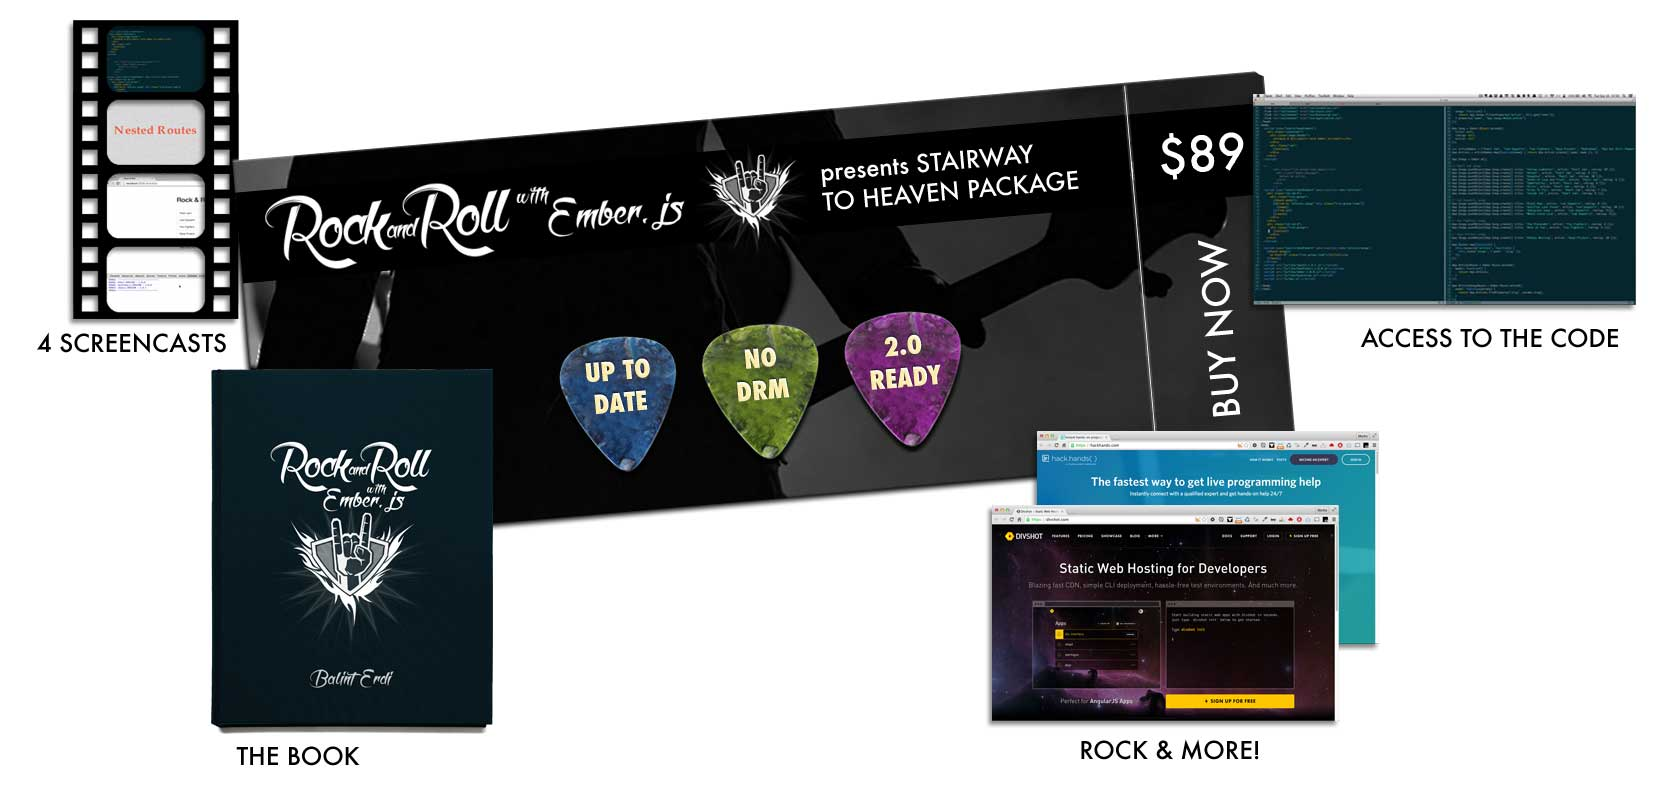
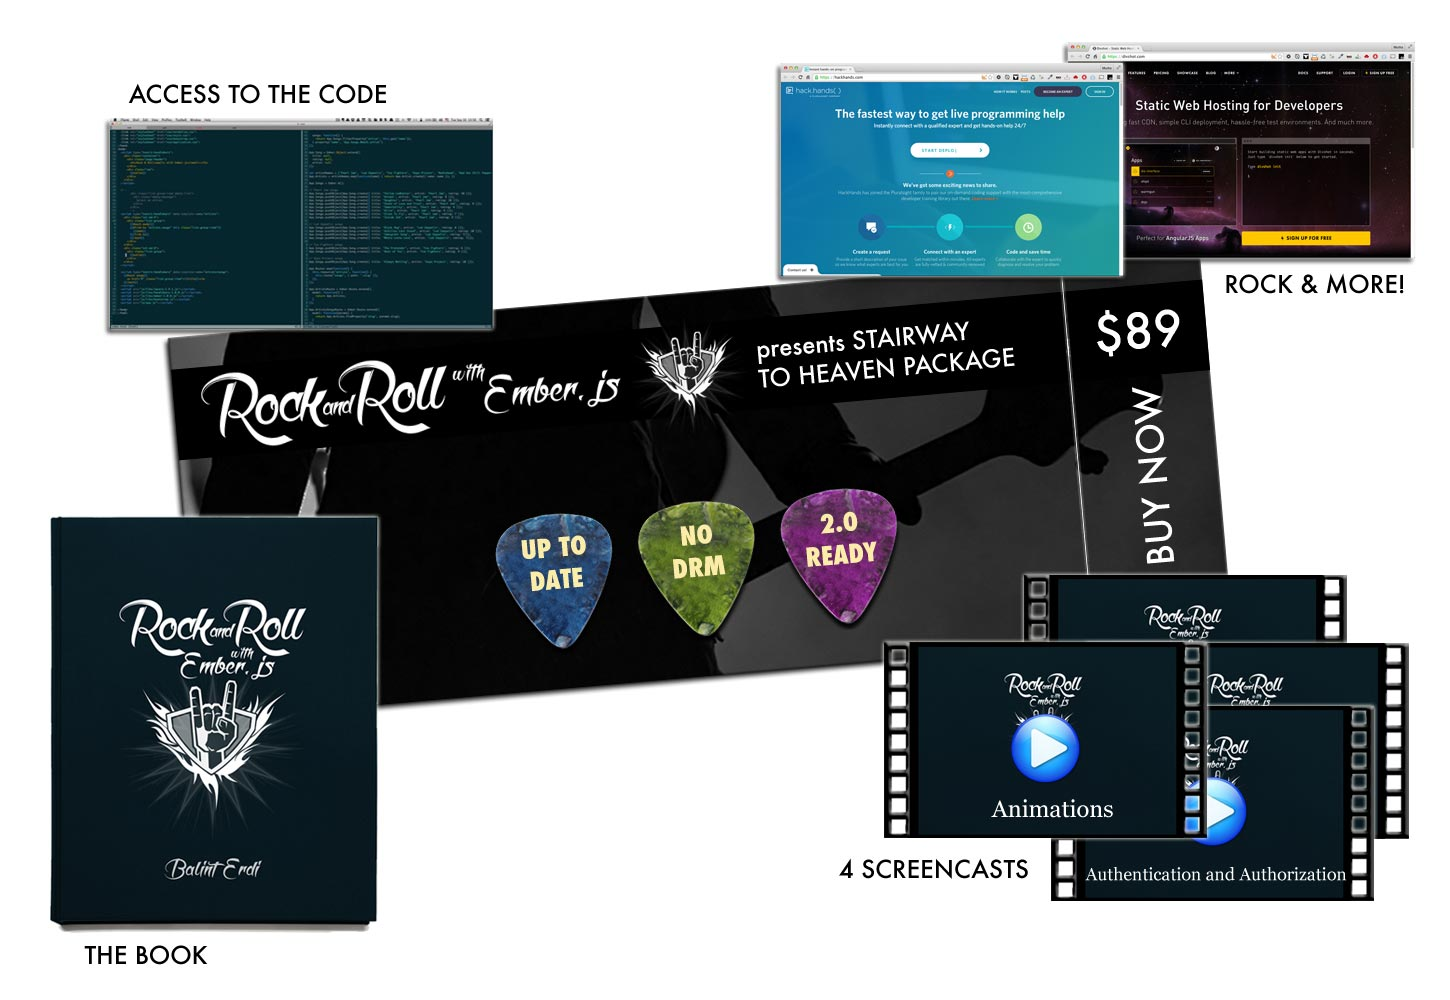
Add visual content for all the packages

diff --git a/source/_layouts/rarwe_book.html b/source/_layouts/rarwe_book.html
@@ -304,7 +304,7 @@
               <div class="col-lg-12 col-md-12">
                 <p class="package-intro">
                   The path to Ember.js bliss, this package contains all you need to take your Ember.js skills to the next level. <strong>It contains:</strong><br><br>
-                  <a href="https://gum.co/rarwe-high-tier"><img src="images/ticket-stairway.jpg" alt="Stairway to Heaven Package" style="width: 757px;"></a>
+                  <a href="https://gum.co/rarwe-high-tier" data-price="89"><img src="images/ticket-stairway.jpg" alt="Stairway to Heaven Package"></a>
                 </p>
               </div>
             </div>
@@ -429,10 +429,15 @@
               <div class="col-lg-12 col-md-12">
                 <p class="package-intro">
                   Take out the screencasts and you have this smaller package that will still ignite your Ember rocket. <strong>It contains:</strong>
+                  <a href="https://gum.co/rarwe-middle-tier" data-price="59"><img src="images/ticket-light.jpg" alt="Light my Fire Package"></a>
                 </p>
               </div>
             </div>
+          </div>
+        </section>
 
+        <section class="section-gray package">
+          <div class="container">
             <div class="row">
               <div class="benefits col-lg-9 col-centered">
                 <div class="col-lg-4 col-sm-6 col-xs-12">
@@ -449,7 +454,7 @@
                 <div class="col-lg-4 col-sm-6 col-xs-12">
                   <div class="items">
                     <div class="benefits-icon">
-                      <img src="images/icon-code.jpg" alt="Code" />
+                      <img src="images/icon-code.png" alt="Code" />
                     </div>
                     <h3>Access to the code</h3>
                     <span>All of the source code</span>
@@ -460,7 +465,7 @@
                 <div class="col-lg-4 col-sm-6 col-xs-12 rock-and-roll">
                   <div class="items">
                     <div class="benefits-icon">
-                      <img src="images/icon-rnr.gif" alt="Rock and Roll" />
+                      <img src="images/icon-rnr.png" alt="Rock and Roll" />
                     </div>
                     <h3>Rock &amp; More</h3>
                     <span>Includes</span>
@@ -499,10 +504,16 @@
               <div class="col-lg-12 col-md-12">
                 <p class="package-intro">
                   Basic but still solid, as the name suggests. This package inclues the book and the Divshot deal. <strong>It contains:</strong>
+                  <br><br>
+                  <a href="https://gum.co/rarwe-low-tier" data-price="39"><img src="images/ticket-smoke.jpg" alt="Smoke on the Water Package"></a>
                 </p>
               </div>
             </div>
+          </div>
+        </section>
 
+        <section class="section-gray package">
+          <div class="container">
             <div class="row">
               <div class="benefits">
                 <div class="col-lg-3 col-lg-offset-3 col-sm-6 col-xs-12">
@@ -519,7 +530,7 @@
                 <div class="col-lg-3 col-sm-6 col-xs-12">
                   <div class="items">
                     <div class="benefits-icon">
-                      <img src="images/icon-rnr.gif" alt="Rock and Roll" />
+                      <img src="images/icon-rnr.png" alt="Rock and Roll" />
                     </div>
                     <h3>Rock &amp; More</h3>
                     <span>Includes</span>

diff --git a/source/rock-and-roll-with-emberjs/css/custom.css b/source/rock-and-roll-with-emberjs/css/custom.css
@@ -304,6 +304,10 @@ section.comment {
   color: #fff
 }
 
+.package-intro img {
+  width: 725px;
+}
+
 /*********************** Announcements ***********************/
 
 .wings-badge-absolute {
